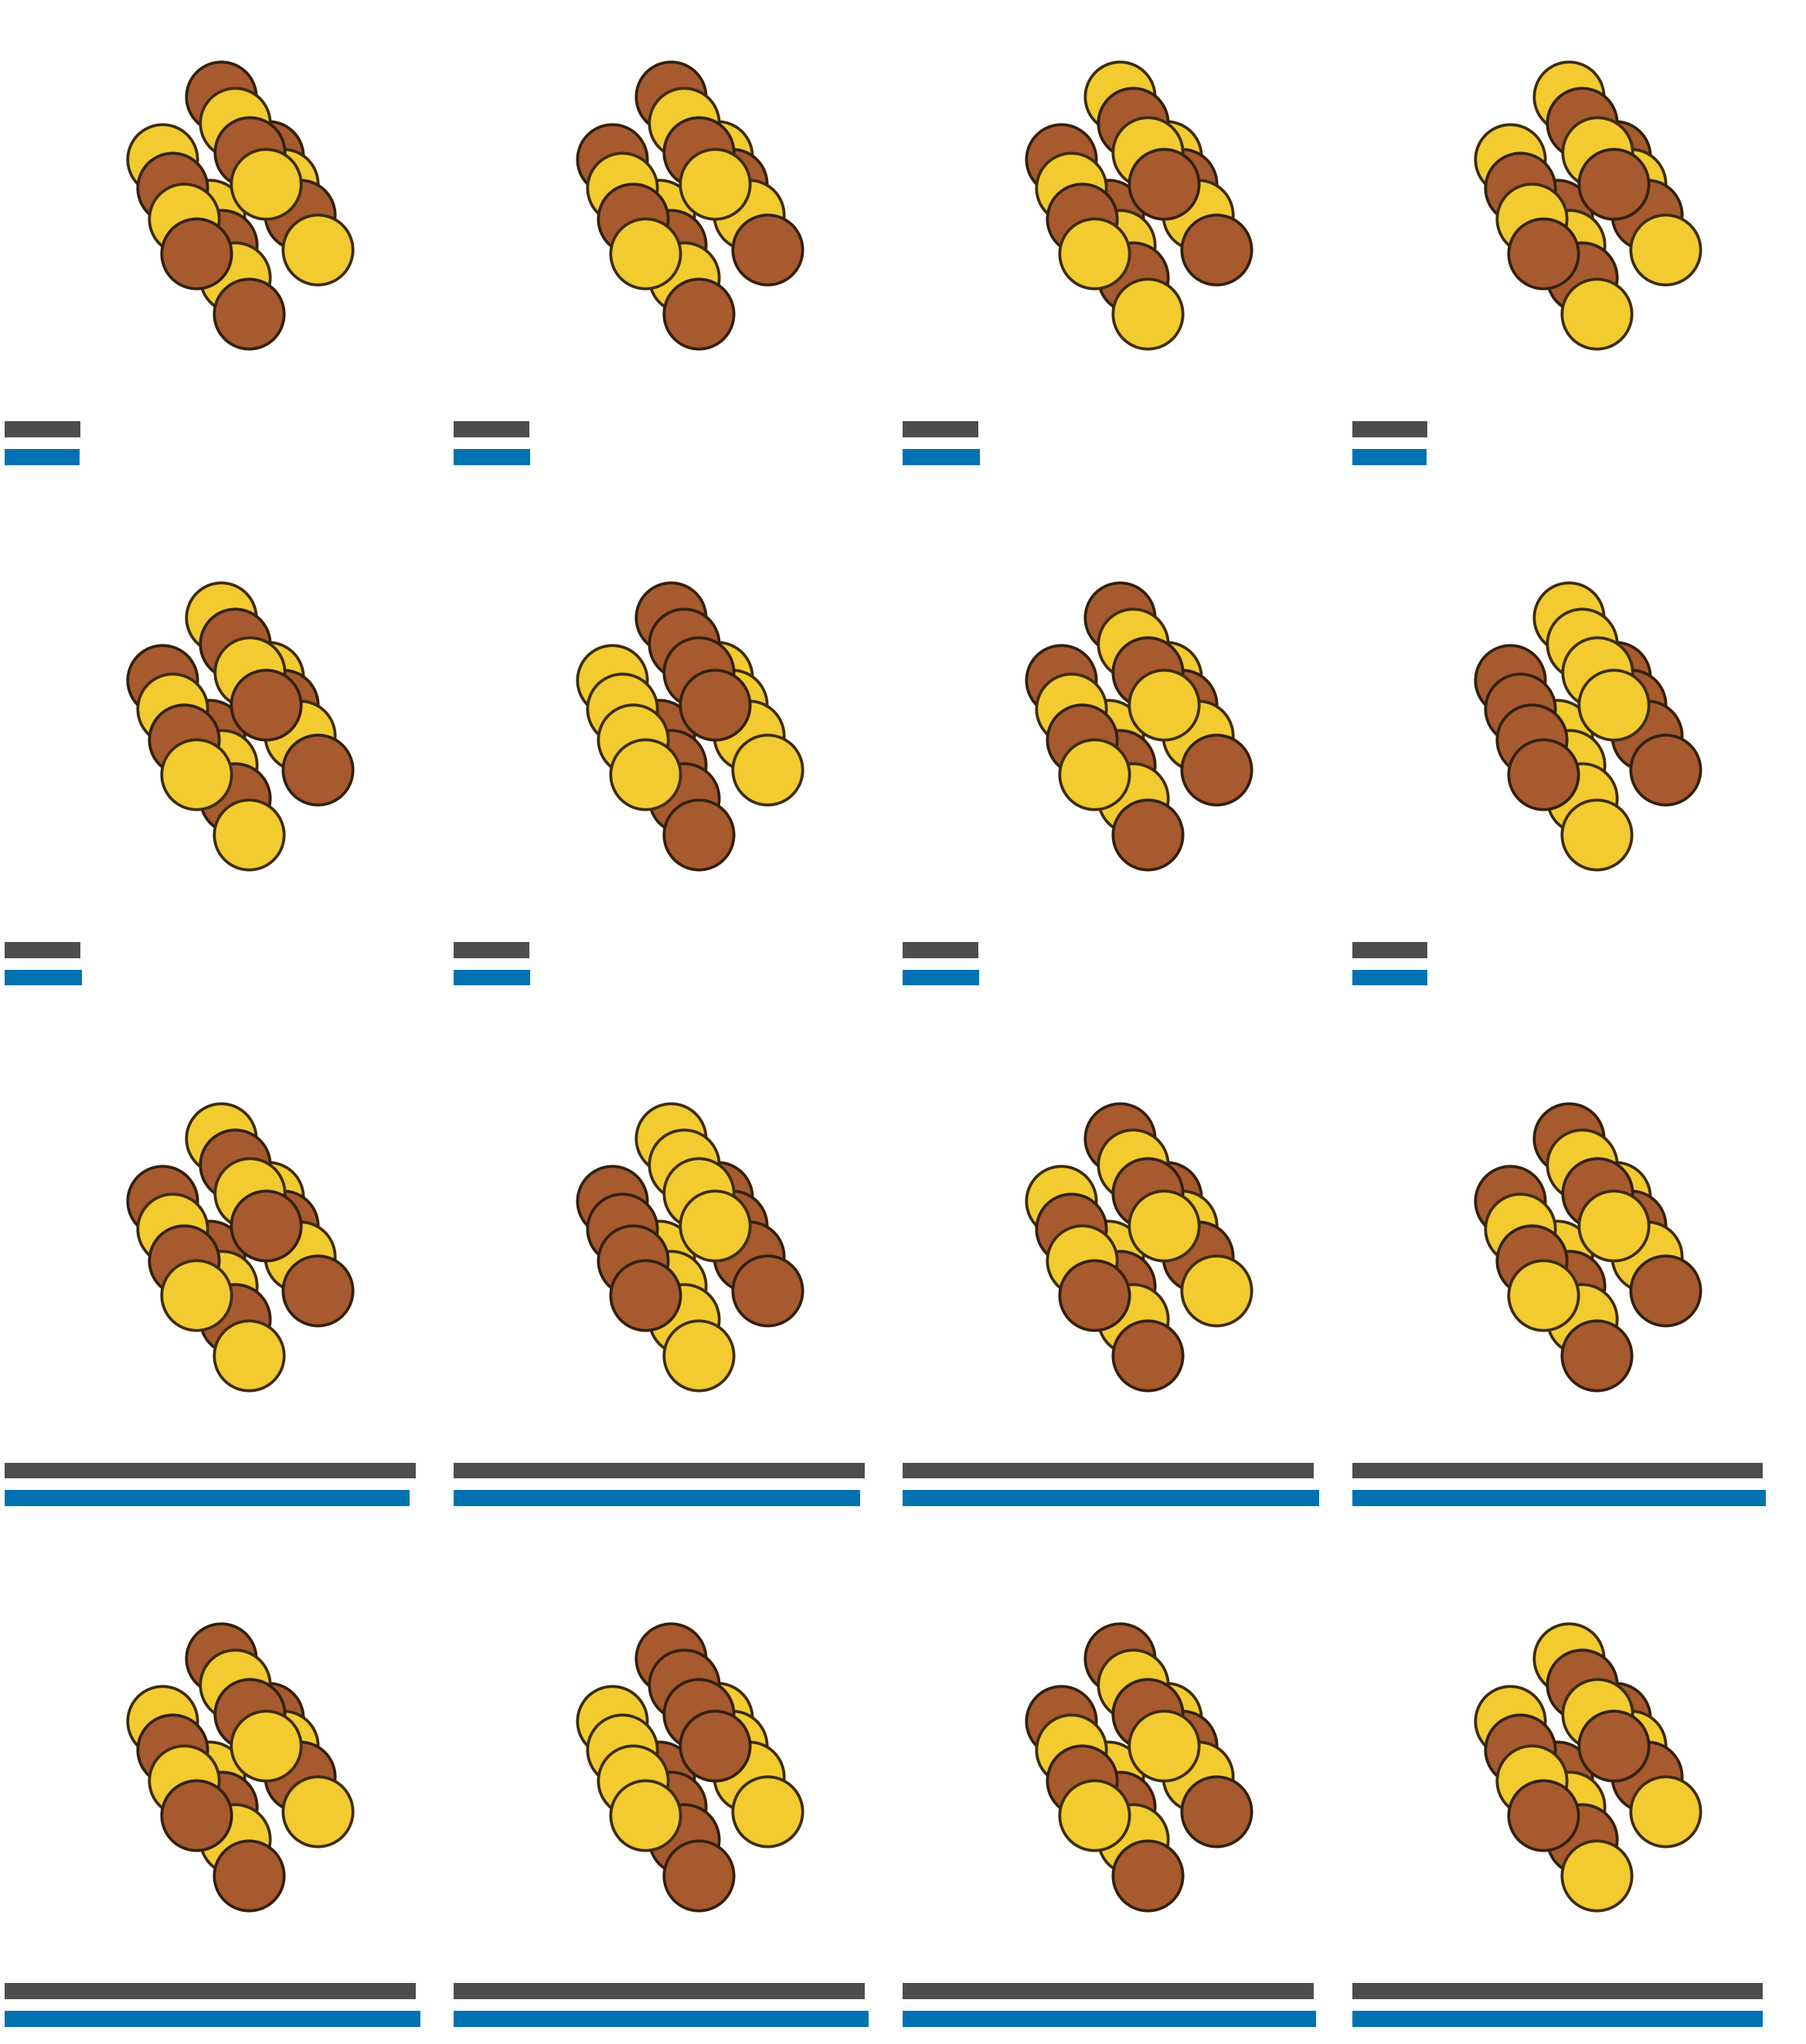
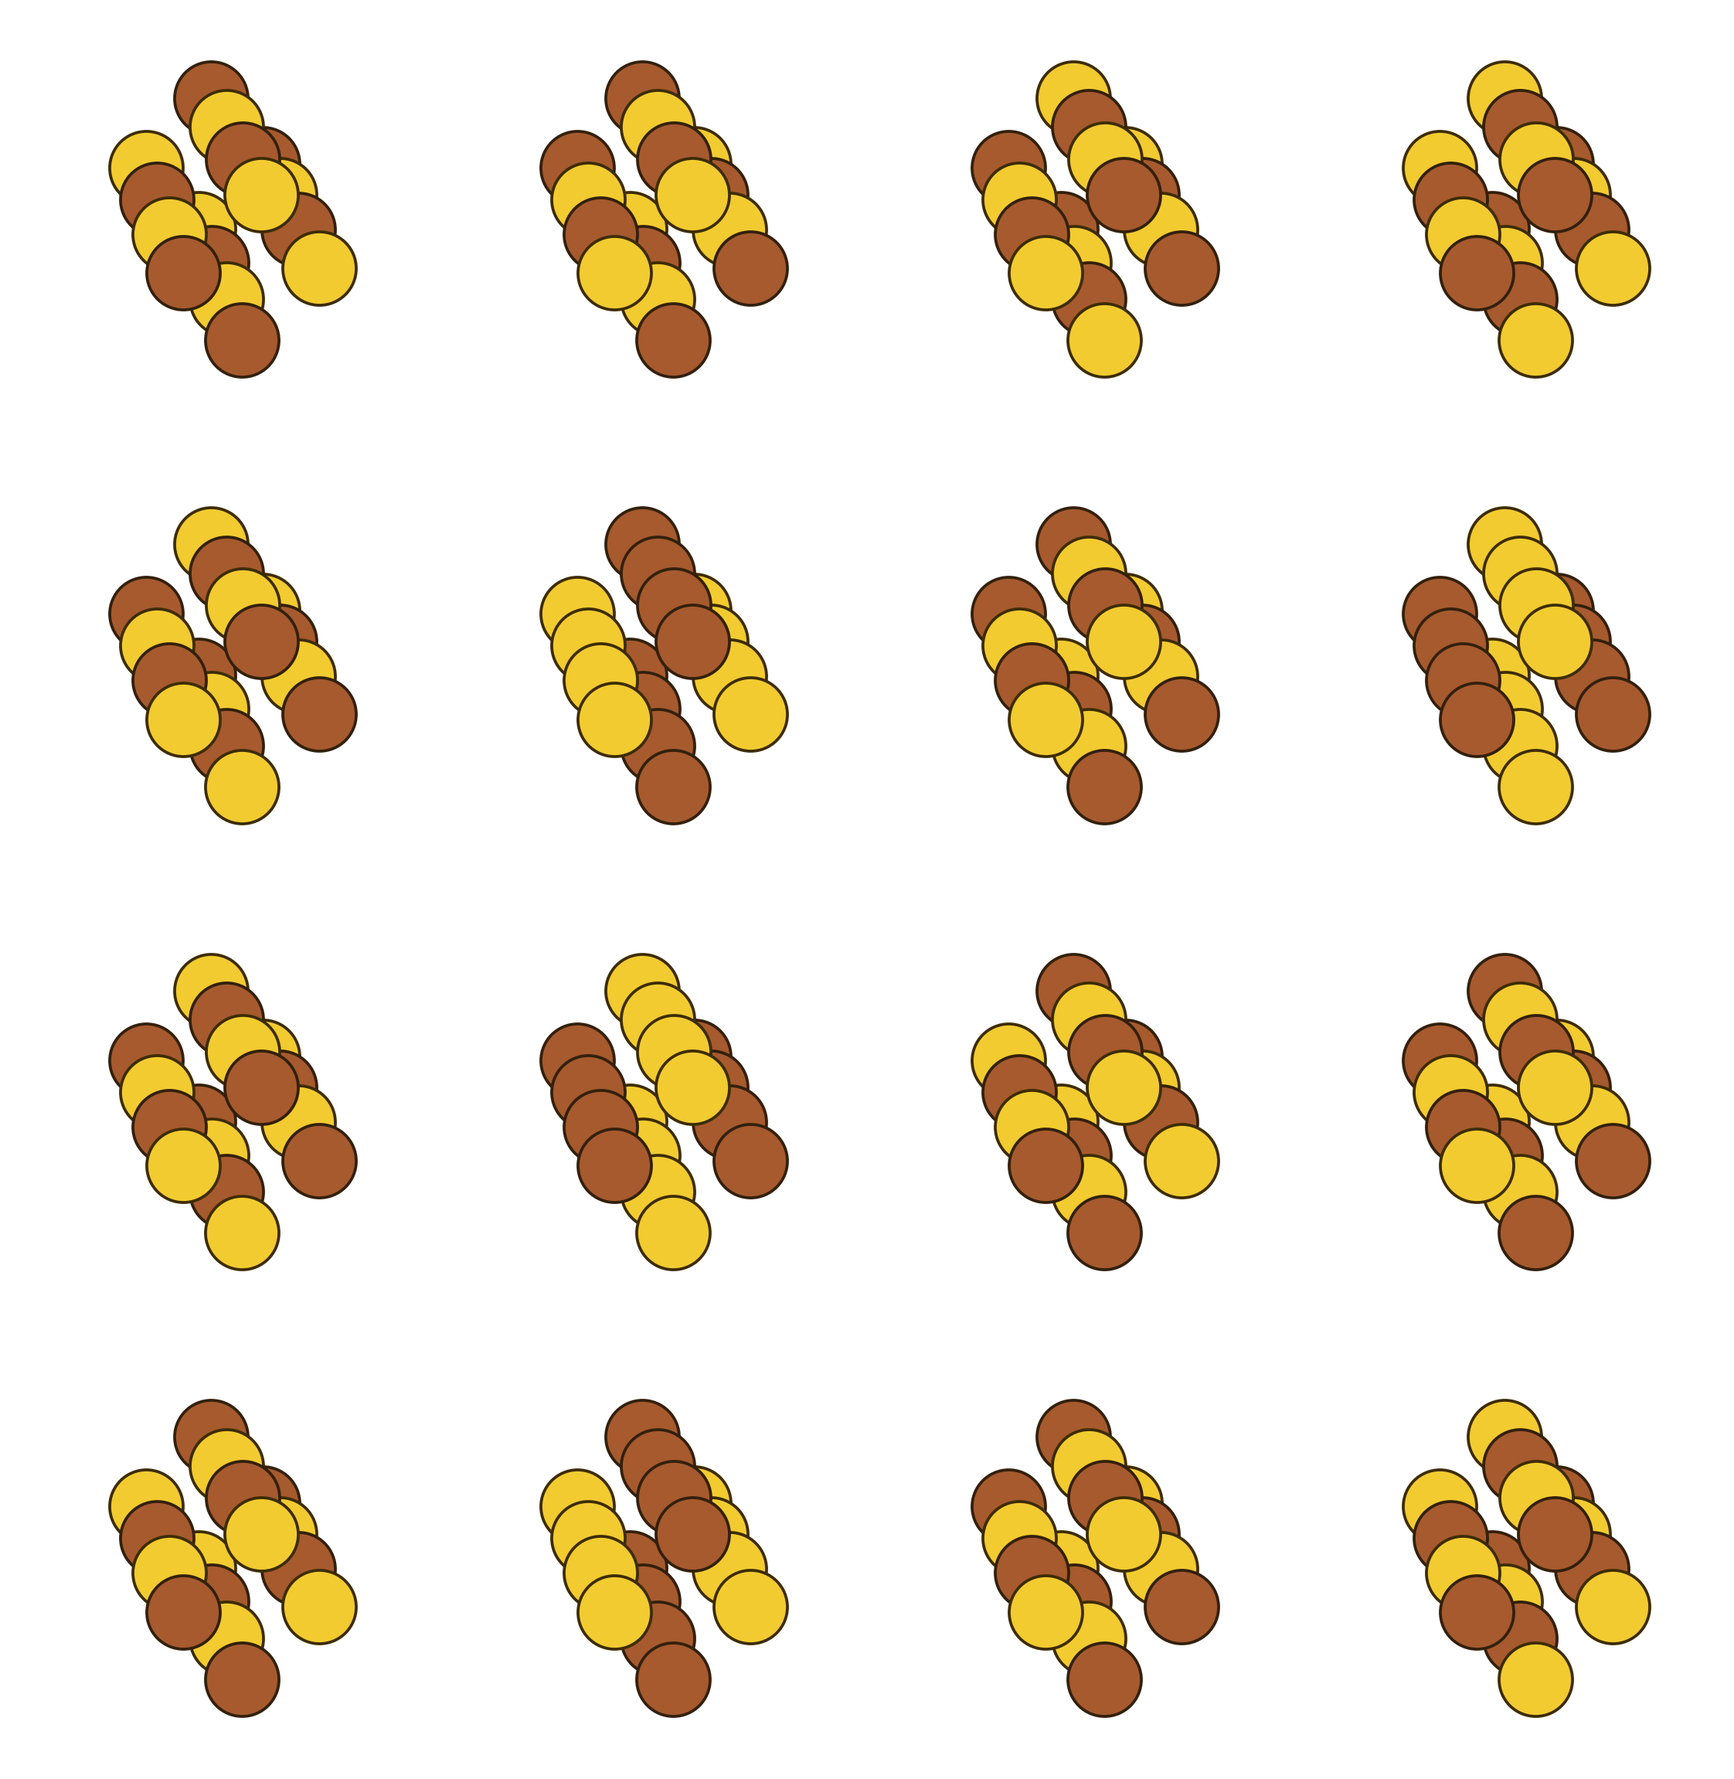
2026-09-28 20:20:00 KST

diff --git a/figures/README.md b/figures/README.md
@@ -1,76 +1,25 @@
-# TMLR figure drafts (evaluation only)
+# TMLR figure drafts
 
-No retraining, no `ckpt/*/results.json` touched, nothing written into
-`iasbs_tmlr`. Every panel is recorded in `manifest.json` with its checkpoint
-dir, seed, weights (live for annealed-temperature runs, EMA otherwise), sample
-RNG seed and selection rule. Sample RNG seed is 0 everywhere; no cherry-picking.
+Evaluation only. Per-panel checkpoint, seed, weights, RNG seed and selection
+rule are in `manifest.json`.
 
-## F3 — Cu–Au 2×2×4, the four most probable configurations
+## F3 — Cu–Au 2×2×4, four most probable configurations
 
 ![F3](F3_cuau_2x2x4_top4/F3_cuau_2x2x4_top4_t20260928.png)
 
-16 fcc sites at x_Au = ½, so the canonical law is **enumerable**:
-C(16,8) = 12870 states, p_exact = softmax(−E/τ) over the whole space. The
-learned law is the empirical frequency of 500 000 draws (seed 0) matched to the
-enumeration by an exact bit code — no binning, no kernel.
+Rows: exact / learned at 1200 K, exact / learned at 680 K. Each row ranked by
+its own law over all C(16,8) = 12870 states. Au gold, Cu copper.
 
-Four rows — exact and learned at 1200 K (τ = 0.1034), then exact and learned at
-680 K (τ = 0.0586). **Every row is ranked by its own law**, so the rows agree
-only if the model puts its mass on the same configurations; they do, and in both
-cases the top four are exactly-degenerate L1₀ variants. Under each cell:
-dark-grey bar = p_exact, blue bar = p_learned, one common scale for all four
-rows, so the 5× mass concentration at 680 K is the visible difference.
-
-| row | p_exact (each of 4) | p_learned | TV over all 12870 states |
-|---|---|---|---|
-| 1200 K exact | 0.02723 | 0.02697 – 0.02790 | 0.0592 |
-| 1200 K learned | 0.02723 | 0.02708 – 0.02790 | 0.0592 |
-| 680 K exact | 0.14846 | 0.14632 – 0.15032 | 0.0551 |
-| 680 K learned | 0.14846 | 0.14827 – 0.15032 | 0.0551 |
-
-Au gold, Cu copper, no cell outline. Raw: `top4.json`, `top4.csv`,
-`law_<T>.npz` (p_exact, p_learned, count, energy, LRO, variant for all 12870
-states), `<row>/top{0..3}.extxyz`.
-
-## F5 — Cu–Au 4×4×4 order statistics (the non-enumerable companion to F3)
-
-![F5](F5_cuau_4x4x4_order/F5_cuau_4x4x4_order_t20260928.png)
-
-64 sites, so no enumeration: the model is judged on the order parameter and on
-how it spreads over the six symmetry-equivalent L1₀ variants. Variant share is
-the one statistic the symmetry cannot hide — E, η and α₁ are all invariant under
-the operations that exchange variants. Reference = every stored symmetrised MC
-sample; learned = 20 000 draws per seed (RNG seed 0, no filtering).
-
-Top: η histogram (log y). Bottom: variant shares among ordered samples
-(η > 0.5), dashed line = 1/6.
-
-| T | source | coverage TV | ordered frac | mean η | α₁ |
-|---|---|---|---|---|---|
-| 1200 K | reference | 0.068 | — | — | — |
-| 1200 K | seeds 0/1/2 | 0.087 / 0.111 / 0.119 | 0.008 / 0.007 / 0.006 | 0.225 | −0.053 |
-| 680 K | reference | 0.009 | — | — | — |
-| 680 K | seeds 0/1/2 | 0.106 / **0.667** / 0.013 | 0.998 / 0.923 / 0.988 | 0.956 / 0.909 / 0.955 | −0.308 / −0.291 / −0.308 |
-
-Seed 1 at 680 K collapses onto two variants (v2, v3 ≈ 0.5 each) while its η and
-α₁ look healthy — exactly the failure the share plot is there to expose. Raw:
-`order_stats.json`, `variant_shares.csv`. This figure keeps its axes because it
-is quantitative.
-
-## F4 — sphere samples, E = 6(1 − x₃²), τ = 1, Haar source, 500 steps
+## F4 — sphere, E = 6(1 − x₃²)
 
 ![F4](F4_sphere/F4_sphere_t20260928.png)
 
-Left: reflection-trained (`sphere_haar_I_refl` seed 0), P(x₃>0) = 0.4988.
-Right: no reflection, seed 2 — the largest |P(x₃>0) − ½| of the three seeds,
-P(x₃>0) = 0.5574. Points coloured by x₃ (diverging PuOr), camera along −e₁ so
-both poles are visible; front hemisphere drawn, all 5000 samples in the CSVs.
+Reflection-trained (left) vs no reflection (right). Points coloured by x₃.
 
 ## F7 — 16×16 lattice snapshots
 
 ![F7](F7_lattice_snapshots/F7_lattice_snapshots_t20260928.png)
 
-Learned (left 4) beside Swendsen–Wang reference (right 4). Rows: canonical
-Ising β = 0.4407; free Ising β = 0.28 / 0.4407 / 0.6; free 3-state Potts
-β = 0.5 / 1.005 / 1.2. Greyscale for Ising, three colours for Potts.
-Raw: `samples.json`, `samples.csv`.
+Learned (left 4) vs Swendsen–Wang reference (right 4). Rows: canonical Ising
+β = 0.4407; free Ising β = 0.28 / 0.4407 / 0.6; free 3-state Potts
+β = 0.5 / 1.005 / 1.2.
